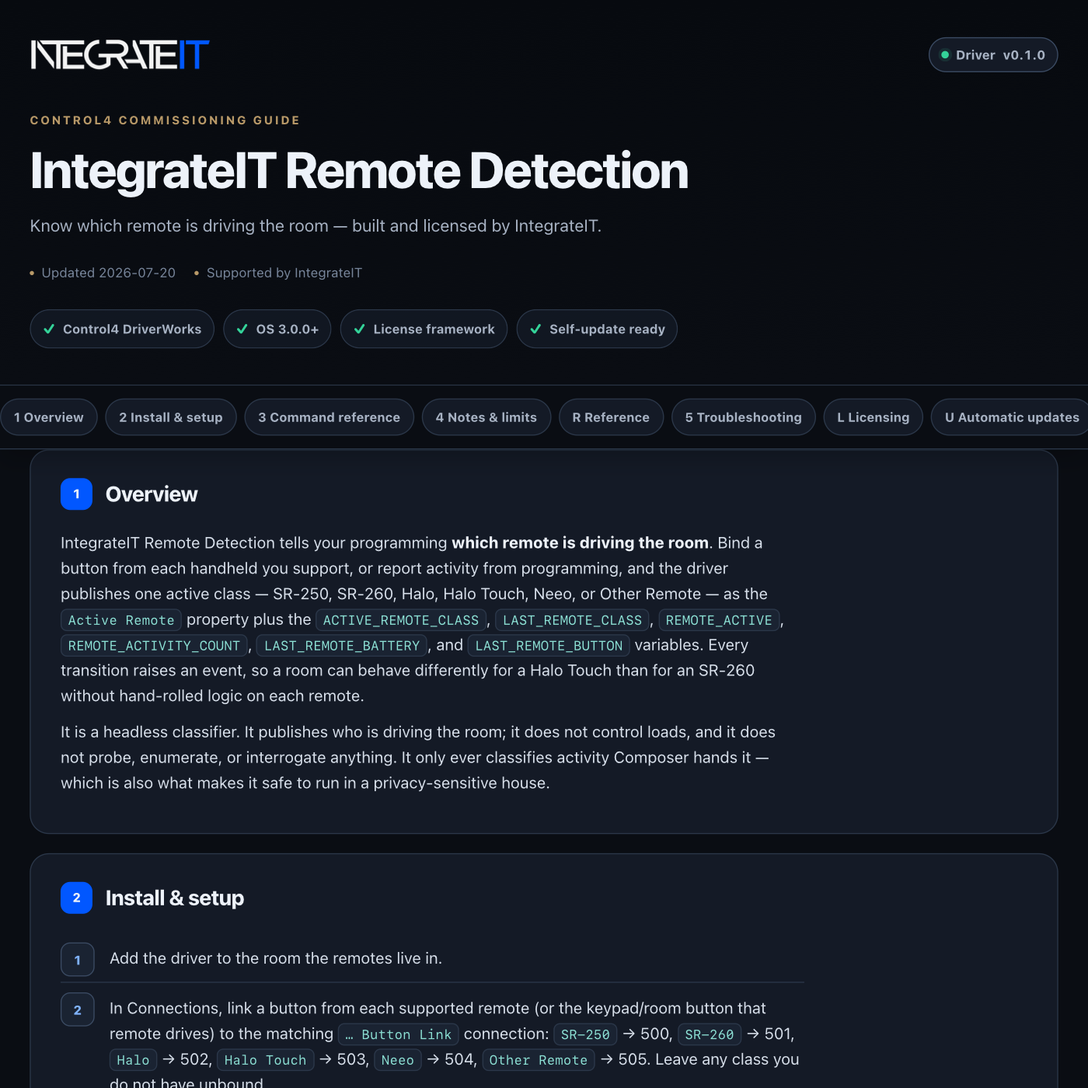
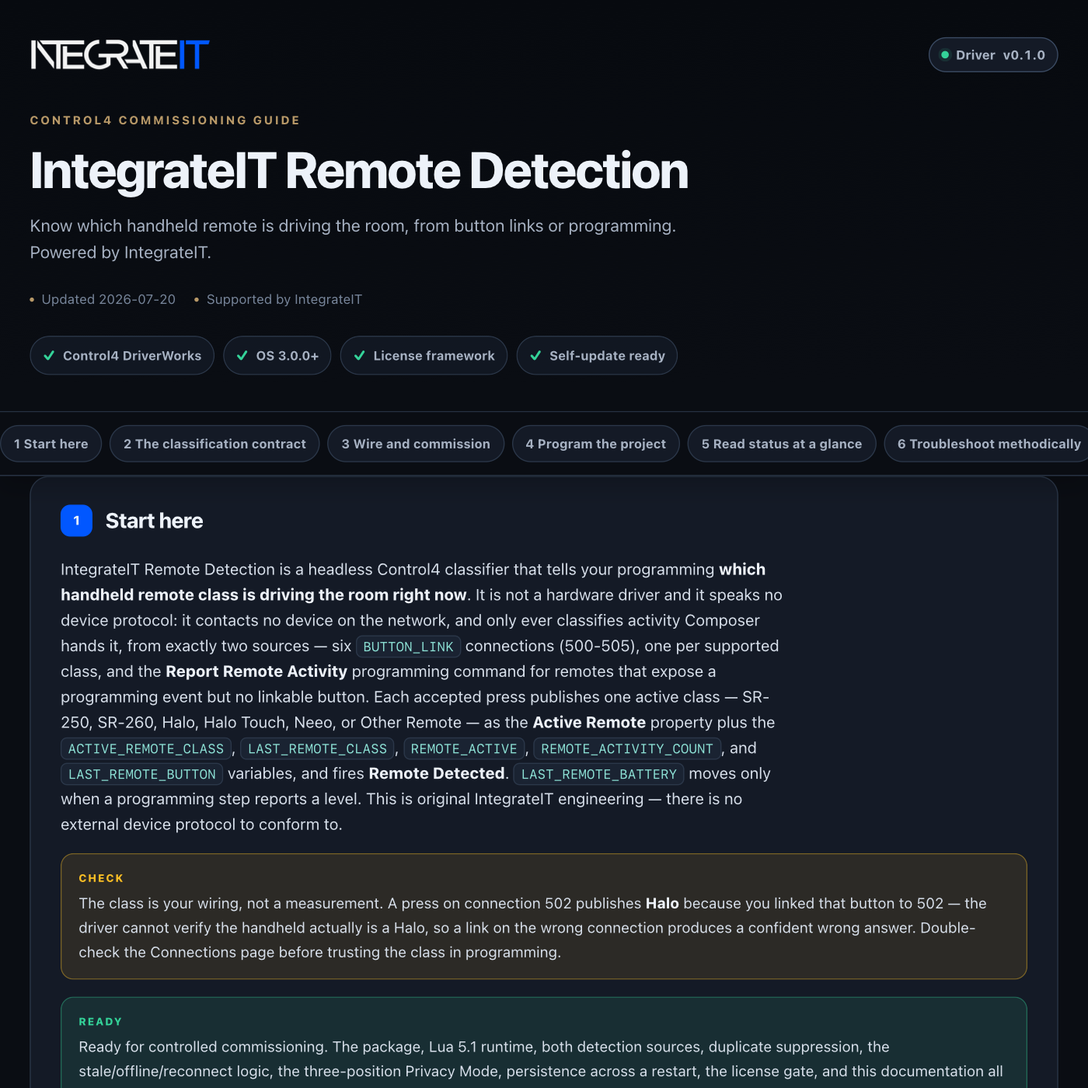
control4: publish driver channel (integrateit_remote_detection 0.1.1)

Changed region(s): [[0.0, 0.3686, 1.0, 0.7679], [0.0307, 0.7986, 0.9214, 1.0], [0.0307, 0.1843, 0.6143, 0.3379]]

diff --git a/control4/integrateit_remote_detection/documentation.html b/control4/integrateit_remote_detection/documentation.html
@@ -179,13 +179,13 @@ td code{white-space:normal}
     <div class="wrap">
       <div class="brandbar">
[1 lines of base64/hex data omitted]
-        <span class="version"><span class="word">Driver</span> v0.1.0</span>
+        <span class="version"><span class="word">Driver</span> v0.1.1</span>
       </div>
       <p class="eyebrow">Control4 commissioning guide</p>
       <h1>IntegrateIT Remote Detection</h1>
-      <p class="sub">Know which remote is driving the room — built and licensed by IntegrateIT.</p>
+      <p class="sub">Know which handheld remote is driving the room, from button links or programming. Powered by IntegrateIT.</p>
       <div class="meta">
-        <span>Updated 2026-07-20</span>
+        <span>Updated 2026-07-26</span>
         <span>Supported by IntegrateIT</span>
       </div>
       <div class="readiness" aria-label="Driver capabilities">
@@ -198,61 +198,140 @@ td code{white-space:normal}
   </header>
 
   <div class="toc-wrap">
-    <nav class="toc wrap" aria-label="Documentation sections"><a href="#overview">1 Overview</a><a href="#install">2 Install &amp; setup</a><a href="#commands">3 Command reference</a><a href="#notes">4 Notes &amp; limits</a><a href="#reference">R Reference</a><a href="#troubleshooting">5 Troubleshooting</a><a href="#licensing">L Licensing</a><a href="#updates">U Automatic updates</a><a href="#changelog">V Version history</a></nav>
+    <nav class="toc wrap" aria-label="Documentation sections"><a href="#overview">1 Start here</a><a href="#classification">2 The classification contract</a><a href="#setup">3 Wire and commission</a><a href="#programming">4 Program the project</a><a href="#status">5 Read status at a glance</a><a href="#troubleshooting">6 Troubleshoot methodically</a><a href="#trust">7 Ownership, privacy, and licensing</a><a href="#reference">R Reference</a><a href="#licensing">L Licensing</a><a href="#updates">U Automatic updates</a><a href="#changelog">V Version history</a></nav>
   </div>
 
   <main class="wrap">
     <section class="card" id="overview" data-card="overview">
-  <h2><span class="n">1</span> Overview</h2>
-  <p>IntegrateIT Remote Detection tells your programming <b>which remote is driving the room</b>. Bind a button from each handheld you support, or report activity from programming, and the driver publishes one active class — SR-250, SR-260, Halo, Halo Touch, Neeo, or Other Remote — as the <code>Active Remote</code> property plus the <code>ACTIVE_REMOTE_CLASS</code>, <code>LAST_REMOTE_CLASS</code>, <code>REMOTE_ACTIVE</code>, <code>REMOTE_ACTIVITY_COUNT</code>, <code>LAST_REMOTE_BATTERY</code>, and <code>LAST_REMOTE_BUTTON</code> variables. Every transition raises an event, so a room can behave differently for a Halo Touch than for an SR-260 without hand-rolled logic on each remote.</p>
-  <p>It is a headless classifier. It publishes who is driving the room; it does not control loads, and it does not probe, enumerate, or interrogate anything. It only ever classifies activity Composer hands it — which is also what makes it safe to run in a privacy-sensitive house.</p>
+  <h2><span class="n">1</span> Start here</h2>
+  <p>IntegrateIT Remote Detection is a headless Control4 classifier that tells your programming <b>which handheld remote class is driving the room right now</b>. It is not a hardware driver and it speaks no device protocol: it contacts no device on the network, and only ever classifies activity Composer hands it, from exactly two sources — six <code>BUTTON_LINK</code> connections (500-505), one per supported class, and the <b>Report Remote Activity</b> programming command for remotes that expose a programming event but no linkable button. Each accepted press publishes one active class — SR-250, SR-260, Halo, Halo Touch, Neeo, or Other Remote — as the <b>Active Remote</b> property plus the <code>ACTIVE_REMOTE_CLASS</code>, <code>LAST_REMOTE_CLASS</code>, <code>REMOTE_ACTIVE</code>, <code>REMOTE_ACTIVITY_COUNT</code>, and <code>LAST_REMOTE_BUTTON</code> variables, and fires <b>Remote Detected</b>. <code>LAST_REMOTE_BATTERY</code> moves only when a programming step reports a level. This is original IntegrateIT engineering — there is no external device protocol to conform to.</p>
+  <div class="note warn">The class is your wiring, not a measurement. A press on connection 502 publishes <b>Halo</b> because you linked that button to 502 — the driver cannot verify the handheld actually is a Halo, so a link on the wrong connection produces a confident wrong answer. Double-check the Connections page before trusting the class in programming.</div>
+  <div class="note good">Ready for controlled commissioning. The package, Lua 5.1 runtime, both detection sources, duplicate suppression, the stale/offline/reconnect logic, the three-position Privacy Mode, persistence across a restart, the license gate, and this documentation all pass automated QA in the Control4 API simulator. A qualified dealer must still confirm acceptance from the actual handhelds and keypads on the target controller — representative-remote verification on real hardware is still pending.</div>
+  <p><b>What you get</b></p>
+  <ul>
+    <li>Six explicitly bounded remote classes: SR-250, SR-260, Halo, Halo Touch, Neeo, and Other Remote — nothing outside this set</li>
+    <li>Two detection sources: one <code>BUTTON_LINK</code> binding per class and the Report Remote Activity programming command — <b>Detection Sources</b> can narrow detection to either path alone</li>
+    <li>Duplicate-press suppression so one physical press delivered twice counts once</li>
+    <li>A stale-activity timeout that returns the room to Unknown and raises an event when the remote goes quiet</li>
+    <li>Per-class offline / reconnect tracking, with <b>Remote Reconnected</b> on the first press after a gap or a reboot</li>
+    <li>Reported low-battery events against a dealer-set threshold, published as <code>LAST_REMOTE_BATTERY</code></li>
+    <li>Privacy Mode: Full Detail, Class Only (no button text published), or Off (detection suspended)</li>
+    <li>Six events and six programming variables, headless — no Navigator tile</li>
+  </ul>
 </section>
 
-<section class="card" id="install" data-card="install">
-  <h2><span class="n">2</span> Install &amp; setup</h2>
+<section class="card" id="classification" data-card="classification">
+  <h2><span class="n">2</span> The classification contract</h2>
+  <p>This driver never invents state and never senses a remote. It publishes assertions you feed it, and it is blunt about the difference.</p>
+  <ul>
+    <li><b>The class is asserted, not measured.</b> Binding 502 means Halo because you wired it that way; the Report Remote Activity <code>CLASS</code> parameter means what you typed. The driver has no way to interrogate the handheld, so a mis-linked binding or a wrong parameter is published with full confidence. Nothing here is a reading off the air.</li>
+    <li><b>Detection is fed, not sniffed.</b> A remote that is neither linked to a binding nor reported from programming is never detected. Battery level and offline state are reported *in* through their commands — the driver does not poll a remote's battery variable and cannot see a remote leave the mesh on its own.</li>
+    <li><b>Button text is only as good as its source.</b> Most <code>BUTTON_LINK</code> presses arrive with no button name, so in Full Detail a binding detection usually reads *(button not reported)* rather than a fabricated label. Button text is dependable only when you pass it yourself in the <code>BUTTON</code> parameter of Report Remote Activity.</li>
+    <li><b>The class set is closed at six.</b> A report carrying any other <code>CLASS</code> token raises <b>Unrecognized Remote Reported</b> and is deliberately <b>not</b> mapped onto a known class — guessing would publish a confident lie about what is in the room. Common spellings of a supported class (<code>SR-250</code>, <code>halo touch</code>, <code>Neeo Remote</code>) are accepted; anything else stays unrecognized.</li>
+  </ul>
+</section>
+
+<section class="card" id="setup" data-card="setup">
+  <h2><span class="n">3</span> Wire and commission</h2>
   <ol class="steps">
-    <li>Add the driver to the room the remotes live in.</li>
-    <li>In Connections, link a button from each supported remote (or the keypad/room button that remote drives) to the matching <code>… Button Link</code> connection: <code>SR-250</code> → 500, <code>SR-260</code> → 501, <code>Halo</code> → 502, <code>Halo Touch</code> → 503, <code>Neeo</code> → 504, <code>Other Remote</code> → 505. Leave any class you do not have unbound.</li>
-    <li>For a remote with no linkable button, use Programming instead: on that remote's own button event, call this driver's <b>Report Remote Activity</b> command with <code>CLASS</code> set to <code>SR250</code>, <code>SR260</code>, <code>HALO</code>, <code>HALO_TOUCH</code>, <code>NEEO</code>, or <code>OTHER</code> (and optionally <code>BUTTON</code> with the button's name).</li>
-    <li>Set <code>Detection Sources</code> if you want only one of those two paths to count.</li>
-    <li>Set <code>Privacy Mode</code>. <b>Class Only</b> (the default) publishes the class and never the button text. <b>Full Detail</b> additionally publishes which button was pressed. <b>Off</b> suspends detection entirely.</li>
-    <li>Set <code>Stale After (min)</code> — how long without activity before the room returns to <code>Unknown</code> — and <code>Duplicate Window (ms)</code>, which collapses one physical press that arrives twice into a single detection.</li>
-    <li>Optionally set the per-class Label properties to friendly names ("Family Room Halo"), and <code>Low Battery Threshold (%)</code> if you feed battery levels in.</li>
-    <li>In Programming, react to <b>Remote Detected</b> / <b>Active Remote Changed</b> / <b>Remote Activity Stale</b>, or compare <code>ACTIVE_REMOTE_CLASS</code>.</li>
+    <li>Add <b>IntegrateIT Remote Detection</b> to the room the remotes live in.</li>
+    <li>In Connections, link a button from each supported remote (or the keypad/room button that remote drives) to the matching <code>BUTTON_LINK</code> connection. Leave any class you do not have unbound.</li>
+    <li>For a remote with no linkable button, use Programming instead: on that remote's own button event, call <b>Report Remote Activity</b> with <code>CLASS</code> set to the class key (and optionally <code>BUTTON</code> with the button's name).</li>
+    <li>Set <b>Detection Sources</b> if you want only one path to count — a privacy-sensitive room often prefers explicit, auditable *Programming Only*.</li>
+    <li>Set <b>Privacy Mode</b>. <b>Class Only</b> (the default) publishes the class and never the button text; <b>Full Detail</b> additionally publishes which button was pressed; <b>Off</b> suspends detection entirely.</li>
+    <li>Set <b>Stale After (min)</b> — how long without activity before the room returns to Unknown (1-240, default 10) — and <b>Duplicate Window (ms)</b>, which collapses one physical press that arrives twice into a single detection (0-5000, default 750; 0 disables it).</li>
+    <li>Optionally set the per-class <b>Label</b> properties to friendly names ("Family Room Halo"), and <b>Low Battery Threshold (%)</b> (1-50, default 20) if you feed battery levels in.</li>
+    <li>Prove it: press a linked remote and watch <b>Active Remote</b> name the class, <code>ACTIVE_REMOTE_CLASS</code> update, and <b>Remote Detected</b> fire in the event log.</li>
   </ol>
+  <table>
+    <tr><th>Class</th><th><code>CLASS</code> key</th><th>Binding</th></tr>
+    <tr><td>SR-250</td><td><code>SR250</code></td><td>500</td></tr>
+    <tr><td>SR-260</td><td><code>SR260</code></td><td>501</td></tr>
+    <tr><td>Halo</td><td><code>HALO</code></td><td>502</td></tr>
+    <tr><td>Halo Touch</td><td><code>HALO_TOUCH</code></td><td>503</td></tr>
+    <tr><td>Neeo</td><td><code>NEEO</code></td><td>504</td></tr>
+    <tr><td>Other Remote</td><td><code>OTHER</code></td><td>505</td></tr>
+  </table>
 </section>
 
-<section class="card" id="commands" data-card="commands">
-  <h2><span class="n">3</span> Command reference</h2>
+<section class="card" id="programming" data-card="programming">
+  <h2><span class="n">4</span> Program the project</h2>
   <table>
     <tr><th>Command / Action</th><th>What it does</th></tr>
     <tr><td>Report Remote Activity</td><td>Programming detection. Params: <code>CLASS</code> (required), <code>BUTTON</code> (optional, published only in Full Detail).</td></tr>
-    <tr><td>Report Remote Battery</td><td>Publishes <code>LAST_REMOTE_BATTERY</code>. Params: <code>CLASS</code>, <code>LEVEL</code> (0-100). Fires *Remote Battery Low* at or below the threshold.</td></tr>
-    <tr><td>Report Remote Offline</td><td>Marks a class offline. Param: <code>CLASS</code>. Its next report raises *Remote Reconnected*.</td></tr>
-    <tr><td>Force Stale Now</td><td>Expire the active remote immediately (fires *Remote Activity Stale*).</td></tr>
+    <tr><td>Report Remote Battery</td><td>Publishes <code>LAST_REMOTE_BATTERY</code>. Params: <code>CLASS</code>, <code>LEVEL</code> (0-100). Fires <b>Remote Battery Low</b> at or below the threshold.</td></tr>
+    <tr><td>Report Remote Offline</td><td>Marks a class offline. Param: <code>CLASS</code>. Its next report raises <b>Remote Reconnected</b>.</td></tr>
+    <tr><td>Force Stale Now</td><td>Expire the active remote immediately (fires <b>Remote Activity Stale</b>).</td></tr>
     <tr><td>Clear Detection</td><td>Forget the active remote, the last class, the seen list, and the counter.</td></tr>
     <tr><td>Print Configuration</td><td>Print sources, privacy, timings, and current state to the Lua output window.</td></tr>
   </table>
-  <p><b>Events:</b> *Remote Detected*, *Active Remote Changed*, *Remote Activity Stale*, *Remote Reconnected*, *Remote Battery Low*, *Unrecognized Remote Reported*. <b>Variables:</b> <code>ACTIVE_REMOTE_CLASS</code>, <code>LAST_REMOTE_CLASS</code>, <code>REMOTE_ACTIVE</code>, <code>REMOTE_ACTIVITY_COUNT</code>, <code>LAST_REMOTE_BATTERY</code>, <code>LAST_REMOTE_BUTTON</code>.</p>
+  <table>
+    <tr><th>Event</th><th>Fires when</th></tr>
+    <tr><td>Remote Detected</td><td>Any accepted, non-duplicate detection.</td></tr>
+    <tr><td>Active Remote Changed</td><td>A genuine hand-off between two *different* remotes — never Unknown → class, which Remote Detected already covers.</td></tr>
+    <tr><td>Remote Activity Stale</td><td>The stale timeout elapsed with no activity; the room returned to Unknown.</td></tr>
+    <tr><td>Remote Reconnected</td><td>A class reported again after going stale, being marked offline, or a reboot — strictly for the class that actually left.</td></tr>
+    <tr><td>Remote Battery Low</td><td>A reported <code>LEVEL</code> was at or below <b>Low Battery Threshold (%)</b>.</td></tr>
+    <tr><td>Unrecognized Remote Reported</td><td>A <code>CLASS</code> outside the six was reported; it is not mapped onto a known class.</td></tr>
+  </table>
+  <p>Variables: <code>ACTIVE_REMOTE_CLASS</code>, <code>LAST_REMOTE_CLASS</code>, <code>REMOTE_ACTIVE</code>, <code>REMOTE_ACTIVITY_COUNT</code>, <code>LAST_REMOTE_BATTERY</code>, <code>LAST_REMOTE_BUTTON</code>. Key against <code>ACTIVE_REMOTE_CLASS</code> — it always holds the machine-readable class key, never a friendly label. Three ways this wires into Composer:</p>
+  <ul>
+    <li><b>When Active Remote Changed fires and <code>ACTIVE_REMOTE_CLASS</code> is <code>HALO_TOUCH</code> → load the cinema scene.</b> A room can behave differently for a Halo Touch than for an SR-260 without hand-rolled logic on each remote.</li>
+    <li><b>When Remote Battery Low fires → announce it and read <code>LAST_REMOTE_BATTERY</code></b> for the level. Remember a battery report is telemetry, not a press: it marks the class seen but never makes it the active remote and never restarts the stale countdown.</li>
+    <li><b>When Remote Activity Stale fires → dim the room or mark it idle.</b> The room went quiet; <code>LAST_REMOTE_CLASS</code> still remembers who was last active.</li>
+  </ul>
 </section>
 
-<section class="card" id="notes" data-card="notes">
-  <h2><span class="n">4</span> Notes &amp; limits</h2>
+<section class="card" id="status" data-card="status">
+  <h2><span class="n">5</span> Read status at a glance</h2>
+  <table>
+    <tr><th>Property</th><th>Meaning</th><th>States</th></tr>
+    <tr><td>Active Remote</td><td>Who is driving the room now</td><td>The class display name (or its label), or <code>Unknown</code></td></tr>
+    <tr><td>Last Detection</td><td>The most recent detection, redacted by Privacy Mode</td><td><code>&lt;class&gt; at &lt;time&gt;</code>; Full Detail reads <code>&lt;class&gt; - &lt;button&gt; at &lt;time&gt;</code>; <code>Unrecognized remote reported</code> (Full Detail names the token: <code>Unrecognized class: &lt;token&gt;</code>); <code>Suppressed (Privacy Mode Off)</code>; <code>None</code></td></tr>
+    <tr><td>Detected Classes</td><td>Every class seen since the last Clear Detection</td><td>Comma-separated names, or <code>None</code></td></tr>
+  </table>
+  <table>
+    <tr><th>Variable</th><th>Type</th><th>Meaning</th></tr>
+    <tr><td><code>ACTIVE_REMOTE_CLASS</code></td><td>STRING</td><td>The active class key, or <code>Unknown</code> — the safe value to automate on</td></tr>
+    <tr><td><code>LAST_REMOTE_CLASS</code></td><td>STRING</td><td>The last class ever detected; survives stale and reboot. <code>None</code> until the first detection and after Clear Detection</td></tr>
+    <tr><td><code>REMOTE_ACTIVE</code></td><td>BOOL</td><td>True while a remote is active, false once Unknown</td></tr>
+    <tr><td><code>REMOTE_ACTIVITY_COUNT</code></td><td>NUMBER</td><td>Accepted, non-duplicate detections since Clear Detection</td></tr>
+    <tr><td><code>LAST_REMOTE_BATTERY</code></td><td>NUMBER</td><td>The last reported battery level (0-100)</td></tr>
+    <tr><td><code>LAST_REMOTE_BUTTON</code></td><td>STRING</td><td>The button in Full Detail; <code>Hidden</code> in Class Only and while Privacy Mode is Off; <code>(button not reported)</code> when Full Detail gets none; <code>None</code> before the first detection and after Clear Detection</td></tr>
+  </table>
+  <p>How the state moves:</p>
   <ul>
-    <li><b>The class set is closed at six.</b> A report with any other <code>CLASS</code> token raises *Unrecognized Remote Reported* and is deliberately <b>not</b> mapped onto a known class — the driver will not guess. Common spellings of a supported class (<code>SR-250</code>, <code>halo touch</code>, <code>Neeo Remote</code>) are accepted.</li>
-    <li><b>The class is your assertion, not a measurement.</b> The driver publishes *Halo* for a press on connection 502 because you linked that button to 502. It cannot verify the handheld actually is a Halo, so a link on the wrong connection produces a confident wrong answer — double-check the Connections page before trusting the output in programming.</li>
-    <li><b>Button text is only as good as the source.</b> Most <code>BUTTON_LINK</code> presses arrive with no button name, so Full Detail will usually read *(button not reported)* for binding detections. Button text is dependable only when you pass it yourself in the <code>BUTTON</code> parameter of Report Remote Activity.</li>
-    <li><b>Detection is fed, not sniffed.</b> A remote that is neither linked to a binding nor reported from programming is never detected. Likewise, battery level and offline state are reported *in*; the driver does not poll a remote's battery variable and cannot see a remote leave the mesh on its own.</li>
-    <li><b>Duplicate suppression</b> is a guard timer, not a wall clock, so it stays correct across a controller time step. One press delivered as both <code>DO_CLICK</code> and <code>SELECT</code>, or as a binding press that programming also reports, counts once. Set <code>Duplicate Window (ms)</code> to 0 to disable it; shortening it live drops the guards immediately rather than waiting out the old window.</li>
-    <li><b>Stale is a timeout, offline is a report.</b> The timeout returns the room to <code>Unknown</code> and fires *Remote Activity Stale*. Report Remote Offline also returns it to <code>Unknown</code> but stays silent — nothing timed out. Either way, that class's next press fires *Remote Reconnected*. *Remote Reconnected* is strictly per class: a remote pressed for the first time in a room that merely happens to be quiet is a plain *Remote Detected*, never a reconnect. Offline and stale marks are persisted, so they survive a restart too.</li>
-    <li><b>Active Remote Changed</b> fires only on a genuine hand-off between two different remotes. <code>Unknown → class</code> is already fully described by *Remote Detected*.</li>
-    <li><b>Across a reboot</b>, the last class, the seen list, and the counter are restored from the driver's persistent store (set <code>Restore Last Remote On Boot</code> to No to start clean). The *active* remote is never restored — it is a live fact about the room — so the driver comes up <code>Unknown</code> and waits; the restored remote's next press fires *Remote Reconnected*.</li>
-    <li><b>Privacy Mode Off</b> is a hard suspend, not a filter: no detection is accepted from either source, <code>Last Detection</code> reads *Suppressed*, and the active remote is cleared. Switching back to Class Only or Full Detail resumes on the next press.</li>
-    <li>Battery reports are telemetry, not presses: they mark a class as seen but never make it the active remote and never restart the stale countdown.</li>
+    <li><b>Stale is a timeout; offline is a report.</b> The timeout returns the room to Unknown and fires <b>Remote Activity Stale</b>. Report Remote Offline marks that class offline; it returns the room to Unknown only when the class it names is the one currently active, and it stays silent either way — nothing timed out. Both routes owe that class a <b>Remote Reconnected</b> on its next press; a remote pressed for the first time in a merely-quiet room is a plain <b>Remote Detected</b>, never a reconnect. Offline and stale marks are persisted, so they survive a restart.</li>
+    <li><b>Across a reboot</b> the last class, seen list, and counter are restored (set <b>Restore Last Remote On Boot</b> to No to start clean). The *active* remote is never restored — it is a live fact about the room — so the driver comes up Unknown and the restored class's next press fires <b>Remote Reconnected</b>.</li>
+    <li><b>Duplicate Window</b> collapses one press delivered as both <code>DO_CLICK</code> and <code>SELECT</code>, or as a binding press that programming also reports, into a single detection. Shortening it live drops the running guards immediately rather than waiting out the old window.</li>
   </ul>
+  <p><b>Print Configuration</b> writes sources, privacy, timings, and the active / last / seen state to the Lua output window with the IntegrateIT identity line. It never prints button text.</p>
+</section>
+
+<section class="card" id="troubleshooting" data-card="troubleshooting">
+  <h2><span class="n">6</span> Troubleshoot methodically</h2>
+  <table>
+    <tr><th>Symptom</th><th>Likely cause</th><th>Fix</th></tr>
+    <tr><td>Nothing is ever detected</td><td>Privacy Mode is Off, or Strict enforcement with no license</td><td>Set Privacy Mode to Class Only; check <code>License Status</code>.</td></tr>
+    <tr><td>One remote is ignored</td><td>Its button is not linked, or Detection Sources excludes that path</td><td>Link the button to the matching connection, or set Detection Sources to *Bindings and Programming*.</td></tr>
+    <tr><td>One press counts twice</td><td>Duplicate Window (ms) is 0, or two classes are linked to the same button</td><td>Raise the window to ~750 ms; check the Connections links.</td></tr>
+    <tr><td>Room goes Unknown too fast</td><td>Stale After (min) is too short for how the room is used</td><td>Raise the timeout; it re-arms from now when you change it.</td></tr>
+    <tr><td>Every report is *Unrecognized*</td><td>The <code>CLASS</code> parameter is not one of the six keys</td><td>Use <code>SR250</code>, <code>SR260</code>, <code>HALO</code>, <code>HALO_TOUCH</code>, <code>NEEO</code>, or <code>OTHER</code>.</td></tr>
+    <tr><td>Button text is missing</td><td>Privacy Mode is Class Only (by design)</td><td>Set Full Detail if the house wants button-level detail published.</td></tr>
+    <tr><td>A friendly label leaked into programming</td><td>A program keyed on the display name, not the variable</td><td>Compare <code>ACTIVE_REMOTE_CLASS</code>, which always holds the class key.</td></tr>
+  </table>
+  <div class="note">Turn on <code>Debug Mode → Print</code> to watch detections, duplicate suppression, and source filtering in the Lua output window.</div>
+  <p>If a symptom survives every check above, run <b>Print Configuration</b>, capture the Lua output window, and send it to support@integrateit.tech · (913) 804-7575.</p>
+</section>
+
+<section class="card" id="trust" data-card="trust">
+  <h2><span class="n">7</span> Ownership, privacy, and licensing</h2>
+  <p>This is an original IntegrateIT classifier. It does not bundle another vendor's runtime, source, brand assets, trial, or license. SR-250, SR-260, Halo, Halo Touch, and Neeo name third-party remote products for classification only; IntegrateIT is not affiliated with their makers, and this driver is not their product.</p>
+  <p>No detection data leaves the controller. The classifier never probes, enumerates, interrogates, or contacts any device on the network — it only classifies the activity Composer hands it, which is what makes it safe in a privacy-sensitive house. No press, class, button text, battery level, customer identity, or project identity is sent anywhere. Privacy Mode governs what is published on-controller: <b>Class Only</b> never lets button text reach a property, a variable, or the log; <b>Full Detail</b> publishes it; <b>Off</b> is a hard suspend that also wipes the already-published detail and suppresses battery and offline reports until you lift it. The shared IntegrateIT license and update services are the only outbound path in the package; they use the controller identity, driver slug, version, configured license key, and update channel as documented in the reference below, and the key is never logged or printed by <b>Print Configuration</b>.</p>
+  <p>Lenient mode allows commissioning without an activated key and keeps <code>License Status</code> visible. Strict mode blocks every detection path — both sources and all three report commands — until the Ops Portal has minted and validated a key for that controller. Installing this package does not itself mint or activate a controller license.</p>
 <section class="card" id="reference" data-card="reference">
   <h2><span class="n">R</span> Reference</h2>
-  <p>Generated from the driver manifest at build time — always matches this build (v0.1.0).</p>
+  <p>Generated from the driver manifest at build time — always matches this build (v0.1.1).</p>
   <h3>Properties</h3>
   <table>
     <tr><th>Property</th><th>Type</th><th>Default</th><th>Description</th></tr>
@@ -318,20 +397,6 @@ td code{white-space:normal}
   </table>
 </section>
 </section>
-
-<section class="card" id="troubleshooting" data-card="troubleshooting">
-  <h2><span class="n">5</span> Troubleshooting</h2>
-  <table>
-    <tr><th>Symptom</th><th>Likely cause</th><th>Fix</th></tr>
-    <tr><td>Nothing is ever detected</td><td><code>Privacy Mode</code> is Off, or Strict enforcement with no license</td><td>Set Privacy Mode to Class Only; check <code>License Status</code>.</td></tr>
-    <tr><td>A remote is ignored</td><td>Its button is not linked, or <code>Detection Sources</code> excludes that path</td><td>Link the button to the matching connection, or set Detection Sources to *Bindings and Programming*.</td></tr>
-    <tr><td>One press counts twice</td><td><code>Duplicate Window (ms)</code> is 0, or two different classes are linked to the same button</td><td>Raise the window to ~750 ms; check the Connections links.</td></tr>
-    <tr><td>Room goes Unknown too fast</td><td><code>Stale After (min)</code> is too short for how the room is used</td><td>Raise the timeout; it re-arms from now when you change it.</td></tr>
-    <tr><td>Every report is *Unrecognized*</td><td>The <code>CLASS</code> parameter is not one of the six tokens</td><td>Use <code>SR250</code>, <code>SR260</code>, <code>HALO</code>, <code>HALO_TOUCH</code>, <code>NEEO</code>, or <code>OTHER</code>.</td></tr>
-    <tr><td>Button text is missing</td><td><code>Privacy Mode</code> is Class Only (by design)</td><td>Set Full Detail if the house wants button-level detail published.</td></tr>
-  </table>
-  <div class="note">Turn on <code>Debug Mode → Print</code> to watch detections, duplicate suppression, and source filtering in the Lua output window.</div>
-</section>
 <section class="card" id="licensing" data-card="licensing">
   <h2><span class="n">L</span> Licensing</h2>
   <p>This driver is licensed <b>per controller</b>. Each license key locks to one controller's
@@ -379,7 +444,9 @@ td code{white-space:normal}
     <section class="card" id="changelog" data-card="changelog">
   <h2><span class="n">V</span> Version history</h2>
   <div class="chg">
-    <div class="rel"><b>v0.1.0</b> <span class="pill green">current</span><span class="d">2026-07-20</span>
+    <div class="rel"><b>v0.1.1</b> <span class="pill green">current</span><span class="d">2026-07-26</span>
+      <ul><li>Documentation rebuilt to the IntegrateIT commissioning-guide standard: uniform sections, honest contracts, verified claim-by-claim against the code.</li></ul></div>
+    <div class="rel"><b>v0.1.0</b><span class="d">2026-07-20</span>
       <ul><li>First cut. Classifies which handheld remote is driving a room across six explicitly bounded classes (SR-250, SR-260, Halo, Halo Touch, Neeo, Other Remote), fed by six BUTTON_LINK connections and/or the Report Remote Activity programming command.</li><li>Duplicate-press suppression on a guard timer, stale-activity timeout, per-class offline/reconnect tracking, reported battery level with a low-battery threshold, and a three-position Privacy Mode (Full Detail / Class Only / Off).</li><li>Last class, seen list, and detection count survive a Director restart via PersistData; the active remote deliberately does not, and the restored class re-confirms with a Remote Reconnected event on its next press.</li><li>An unrecognized CLASS token raises Unrecognized Remote Reported and is never coerced onto a supported class.</li><li>Adversarial review fixes before first release: Remote Reconnected is now strictly per class (a first-ever press in a quiet room was firing a reconnect for a remote that had never been connected); offline and stale marks are persisted so they survive a restart as the catalog claims; Clear Detection clears the pending reconnect; and every class's own published display name — including "Other Remote" — now round-trips as a CLASS parameter instead of landing on Unrecognized.</li></ul></div>
   </div>
 </section>

diff --git a/control4/integrateit_remote_detection/CHANGELOG.md b/control4/integrateit_remote_detection/CHANGELOG.md
@@ -1,5 +1,8 @@
 # Changelog — IntegrateIT Remote Detection
 
+## [0.1.1] - 2026-07-26
+- Documentation rebuilt to the IntegrateIT commissioning-guide standard: uniform sections, honest contracts, verified claim-by-claim against the code.
+
 ## [0.1.0] - 2026-07-20
 - First cut. Classifies which handheld remote is driving a room across six explicitly bounded classes (SR-250, SR-260, Halo, Halo Touch, Neeo, Other Remote), fed by six BUTTON_LINK connections and/or the Report Remote Activity programming command.
 - Duplicate-press suppression on a guard timer, stale-activity timeout, per-class offline/reconnect tracking, reported battery level with a low-battery threshold, and a three-position Privacy Mode (Full Detail / Class Only / Off).
